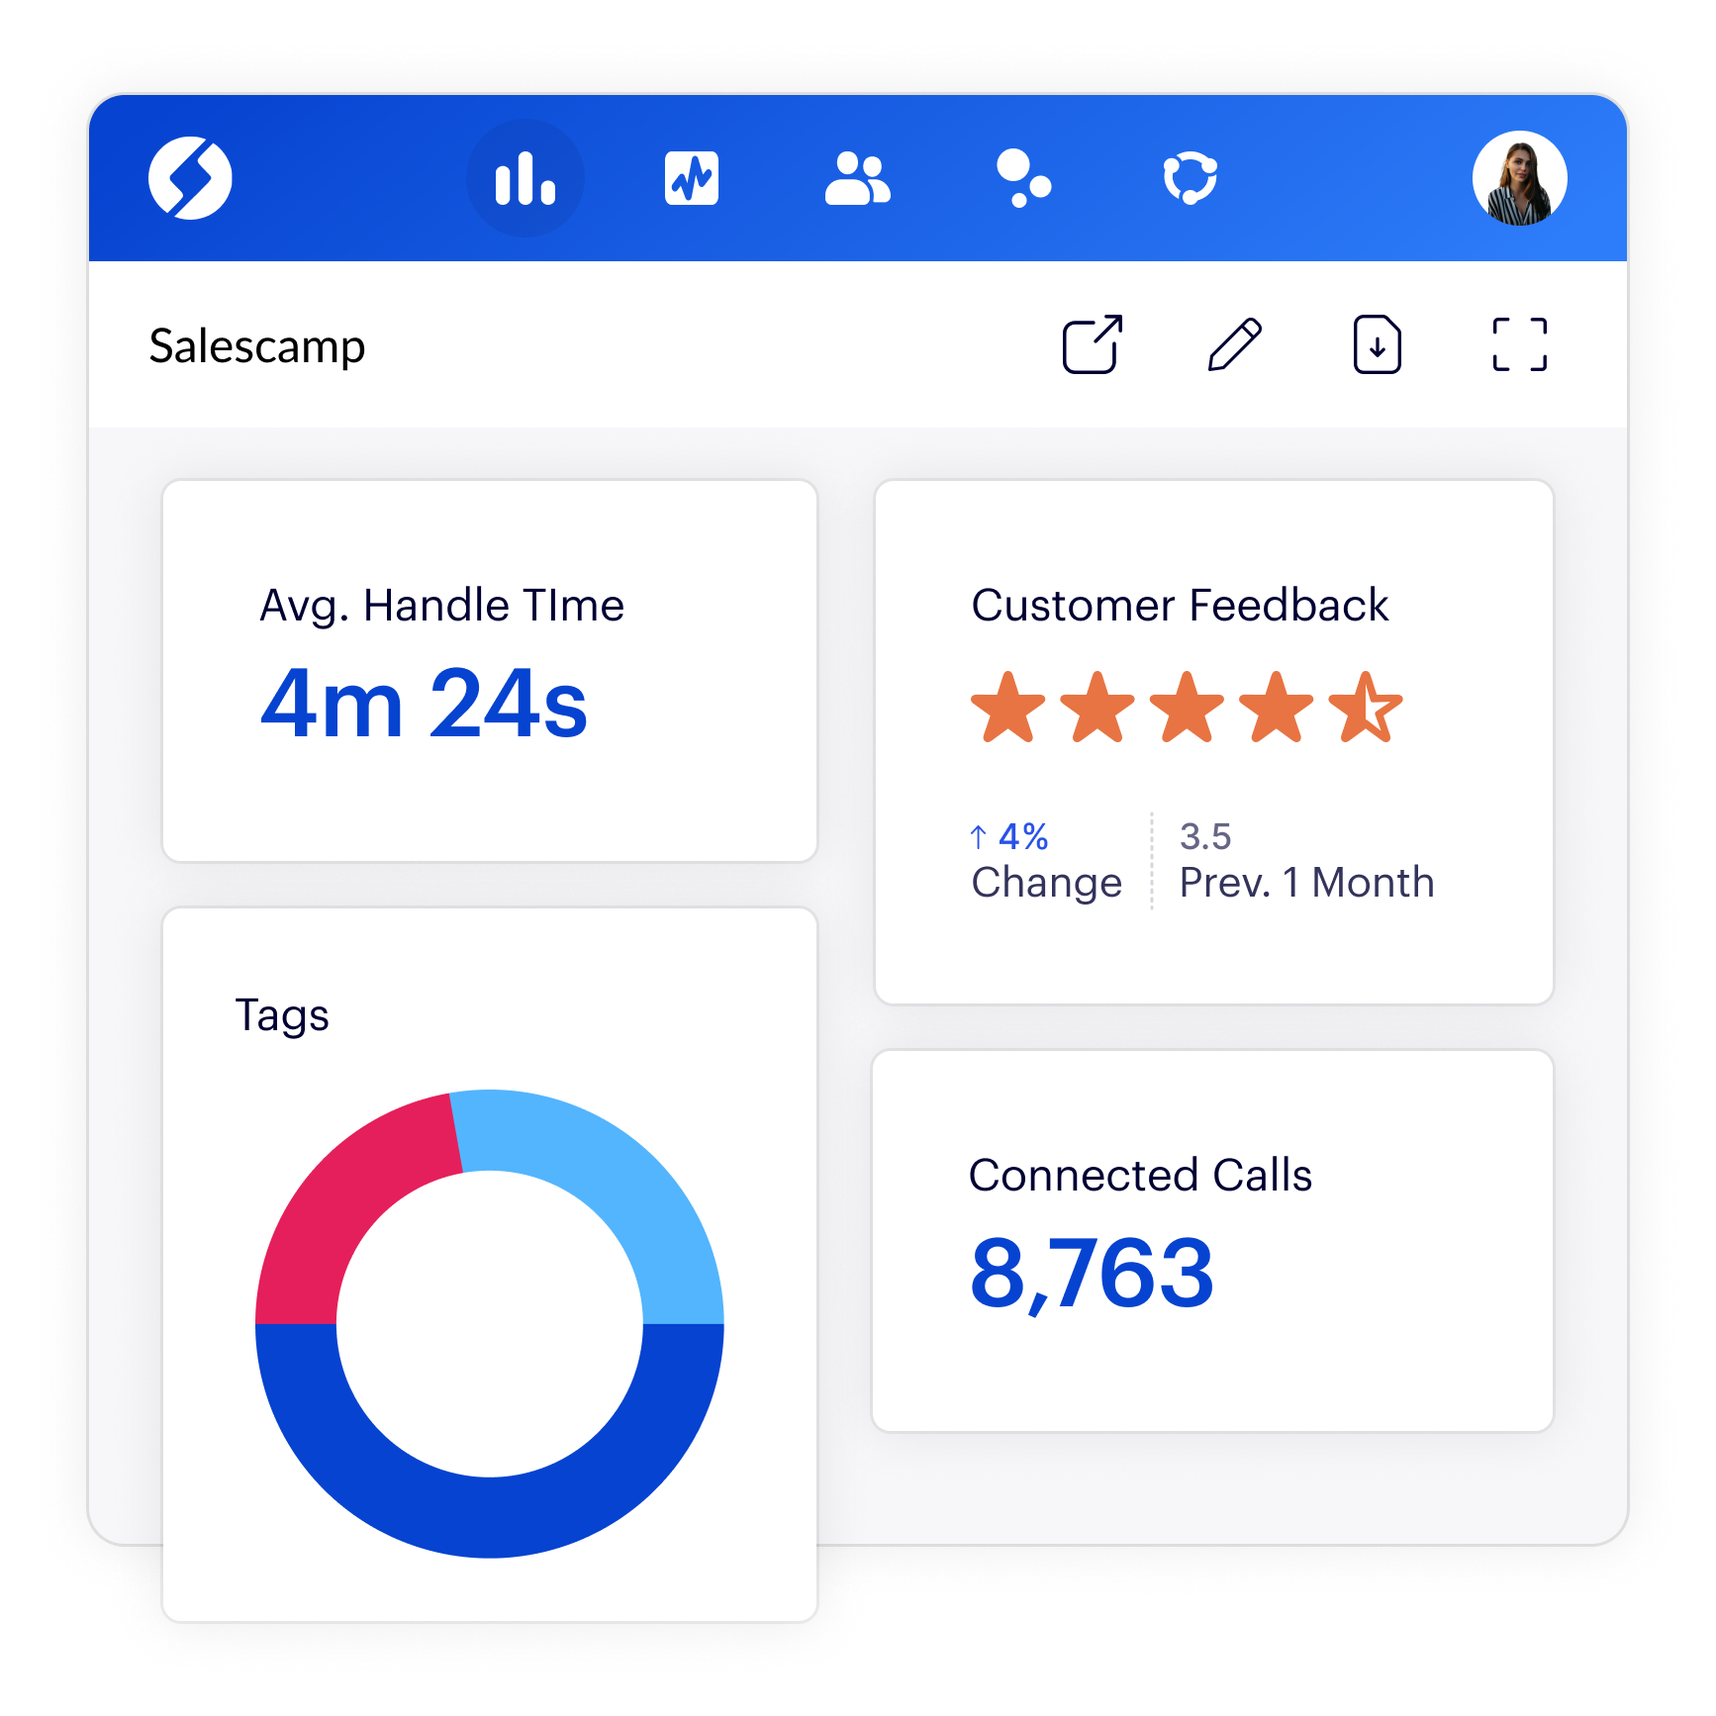
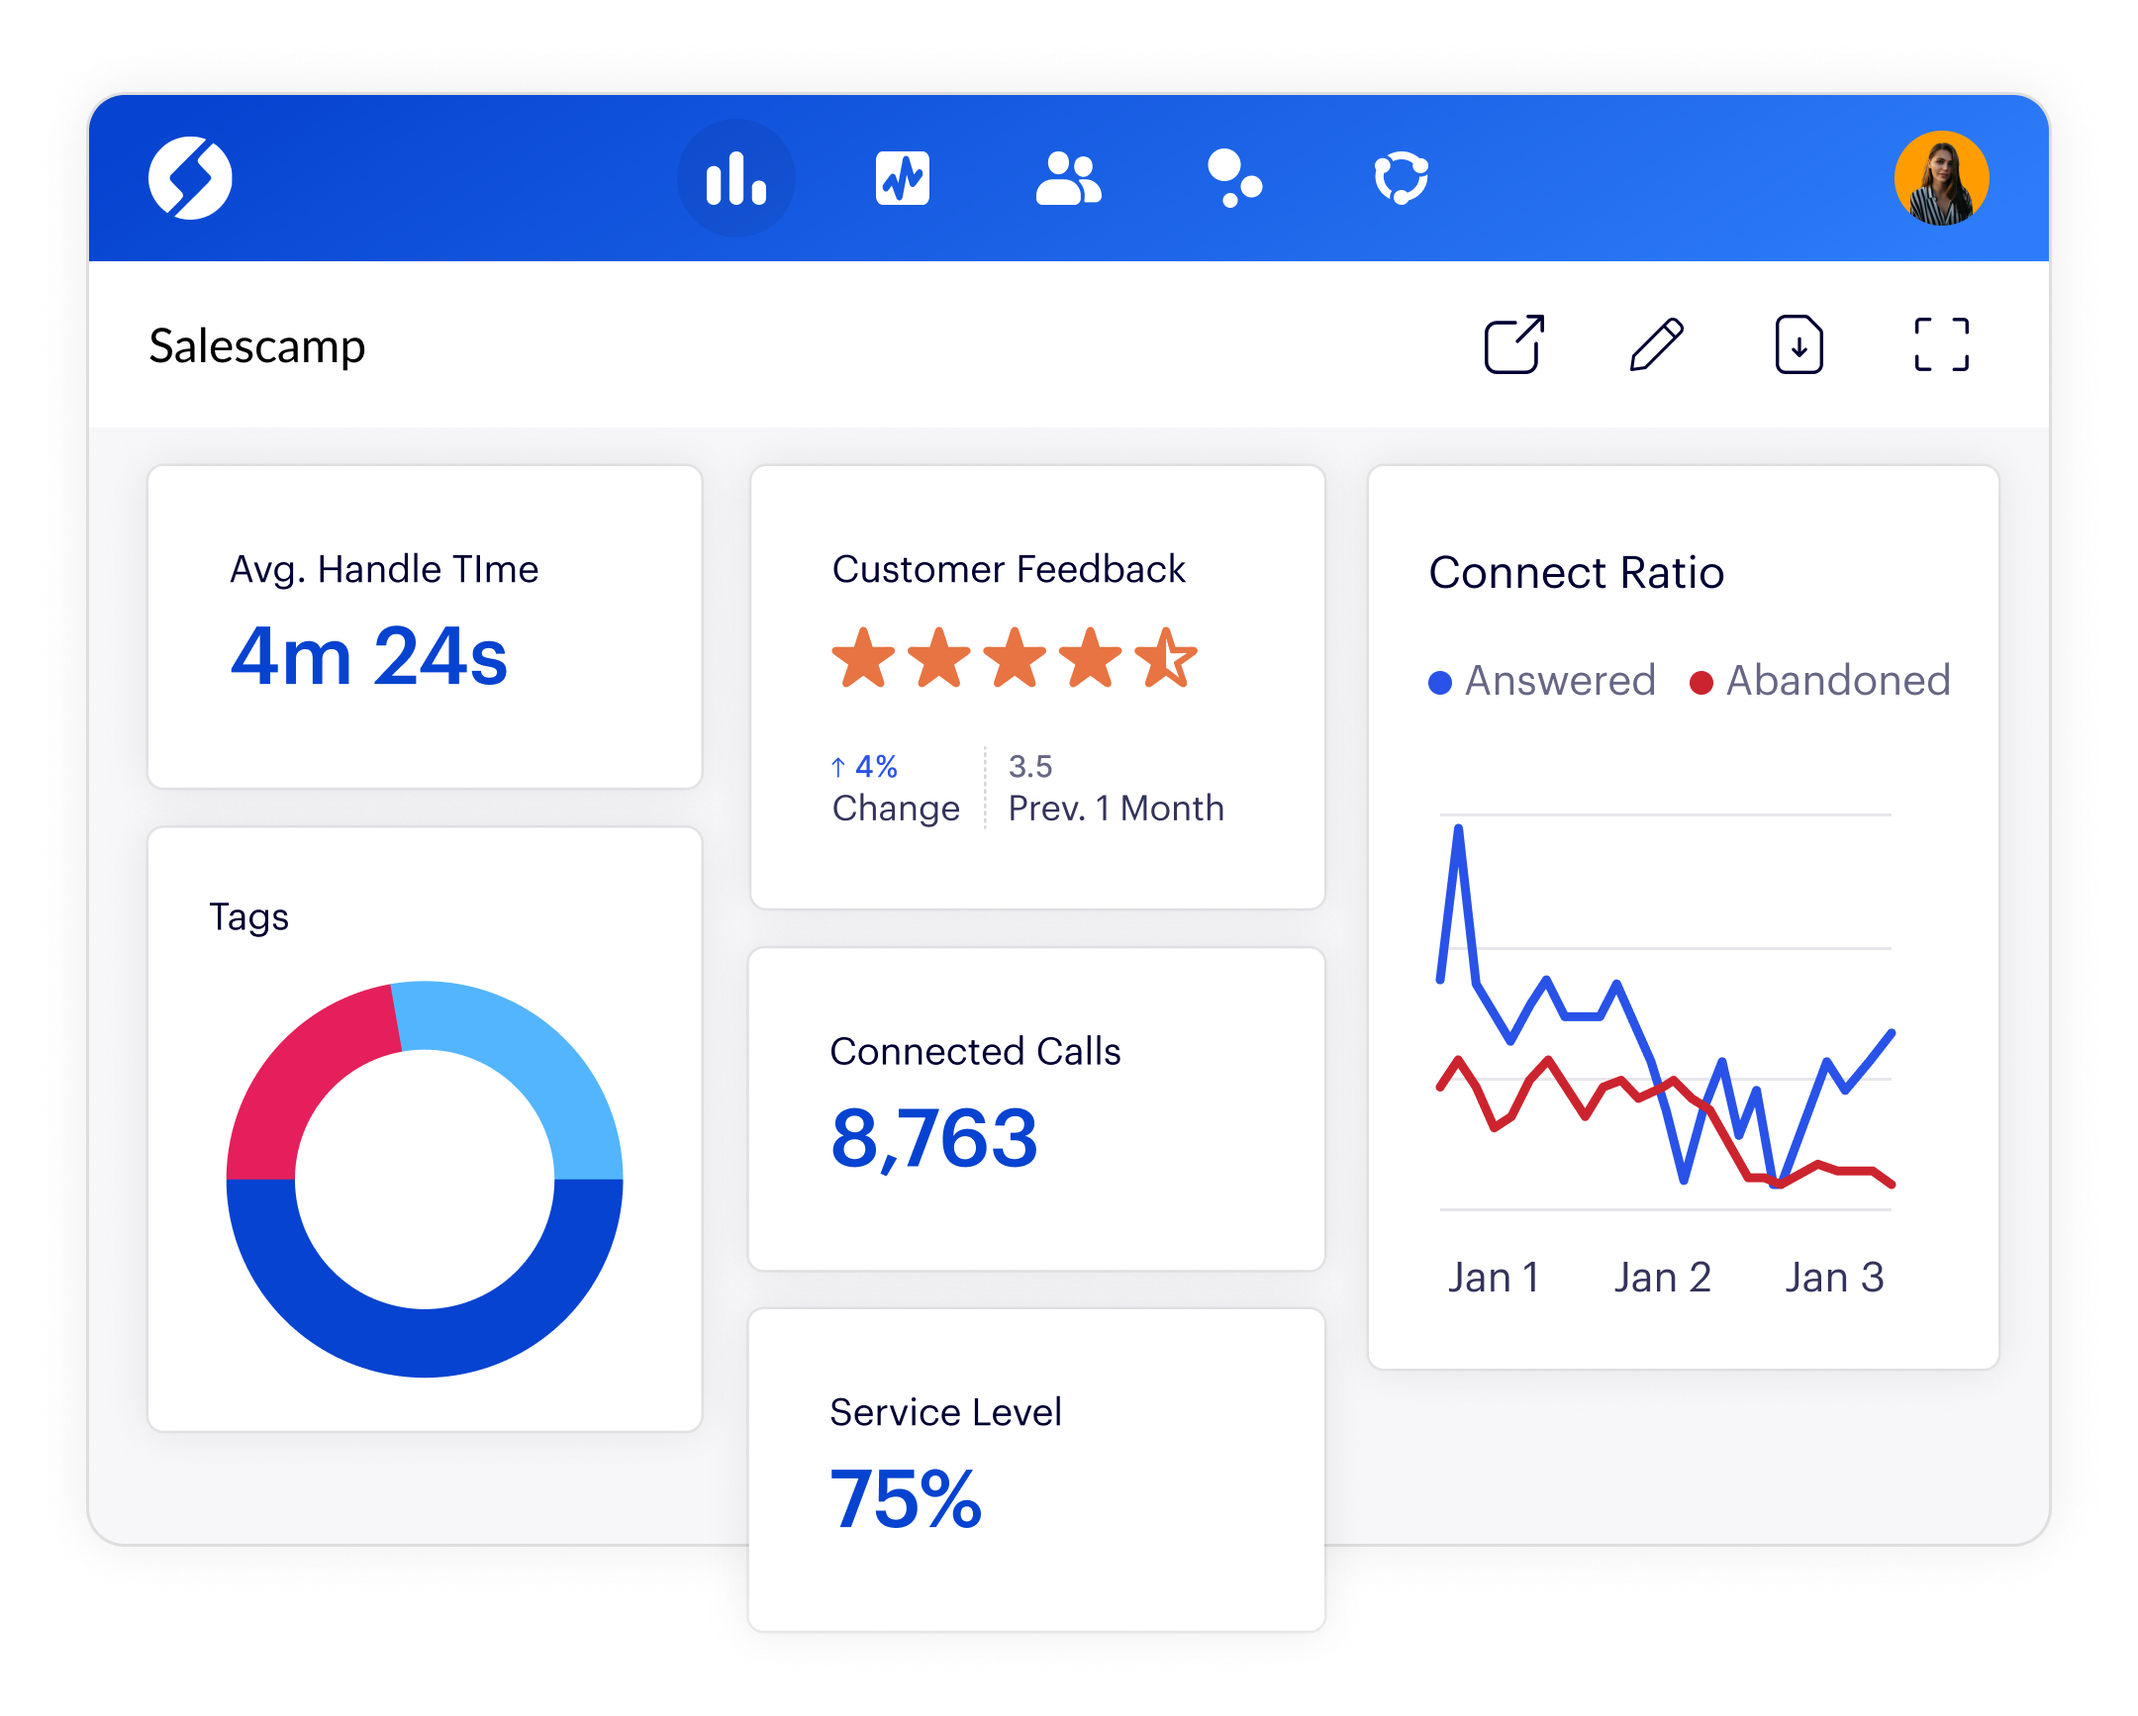
image change

diff --git a/pages/features/analytics.js b/pages/features/analytics.js
@@ -47,8 +47,8 @@ export default function AnalyticsPage({ toggleDemoForm }) {
         media={
           <Image
             src="/features/ss-dashboard.png"
-            width={520}
-            height={520}
+            width={720}
+            height={578}
             quality={100}
             alt="Samespace Analytics"
           />
